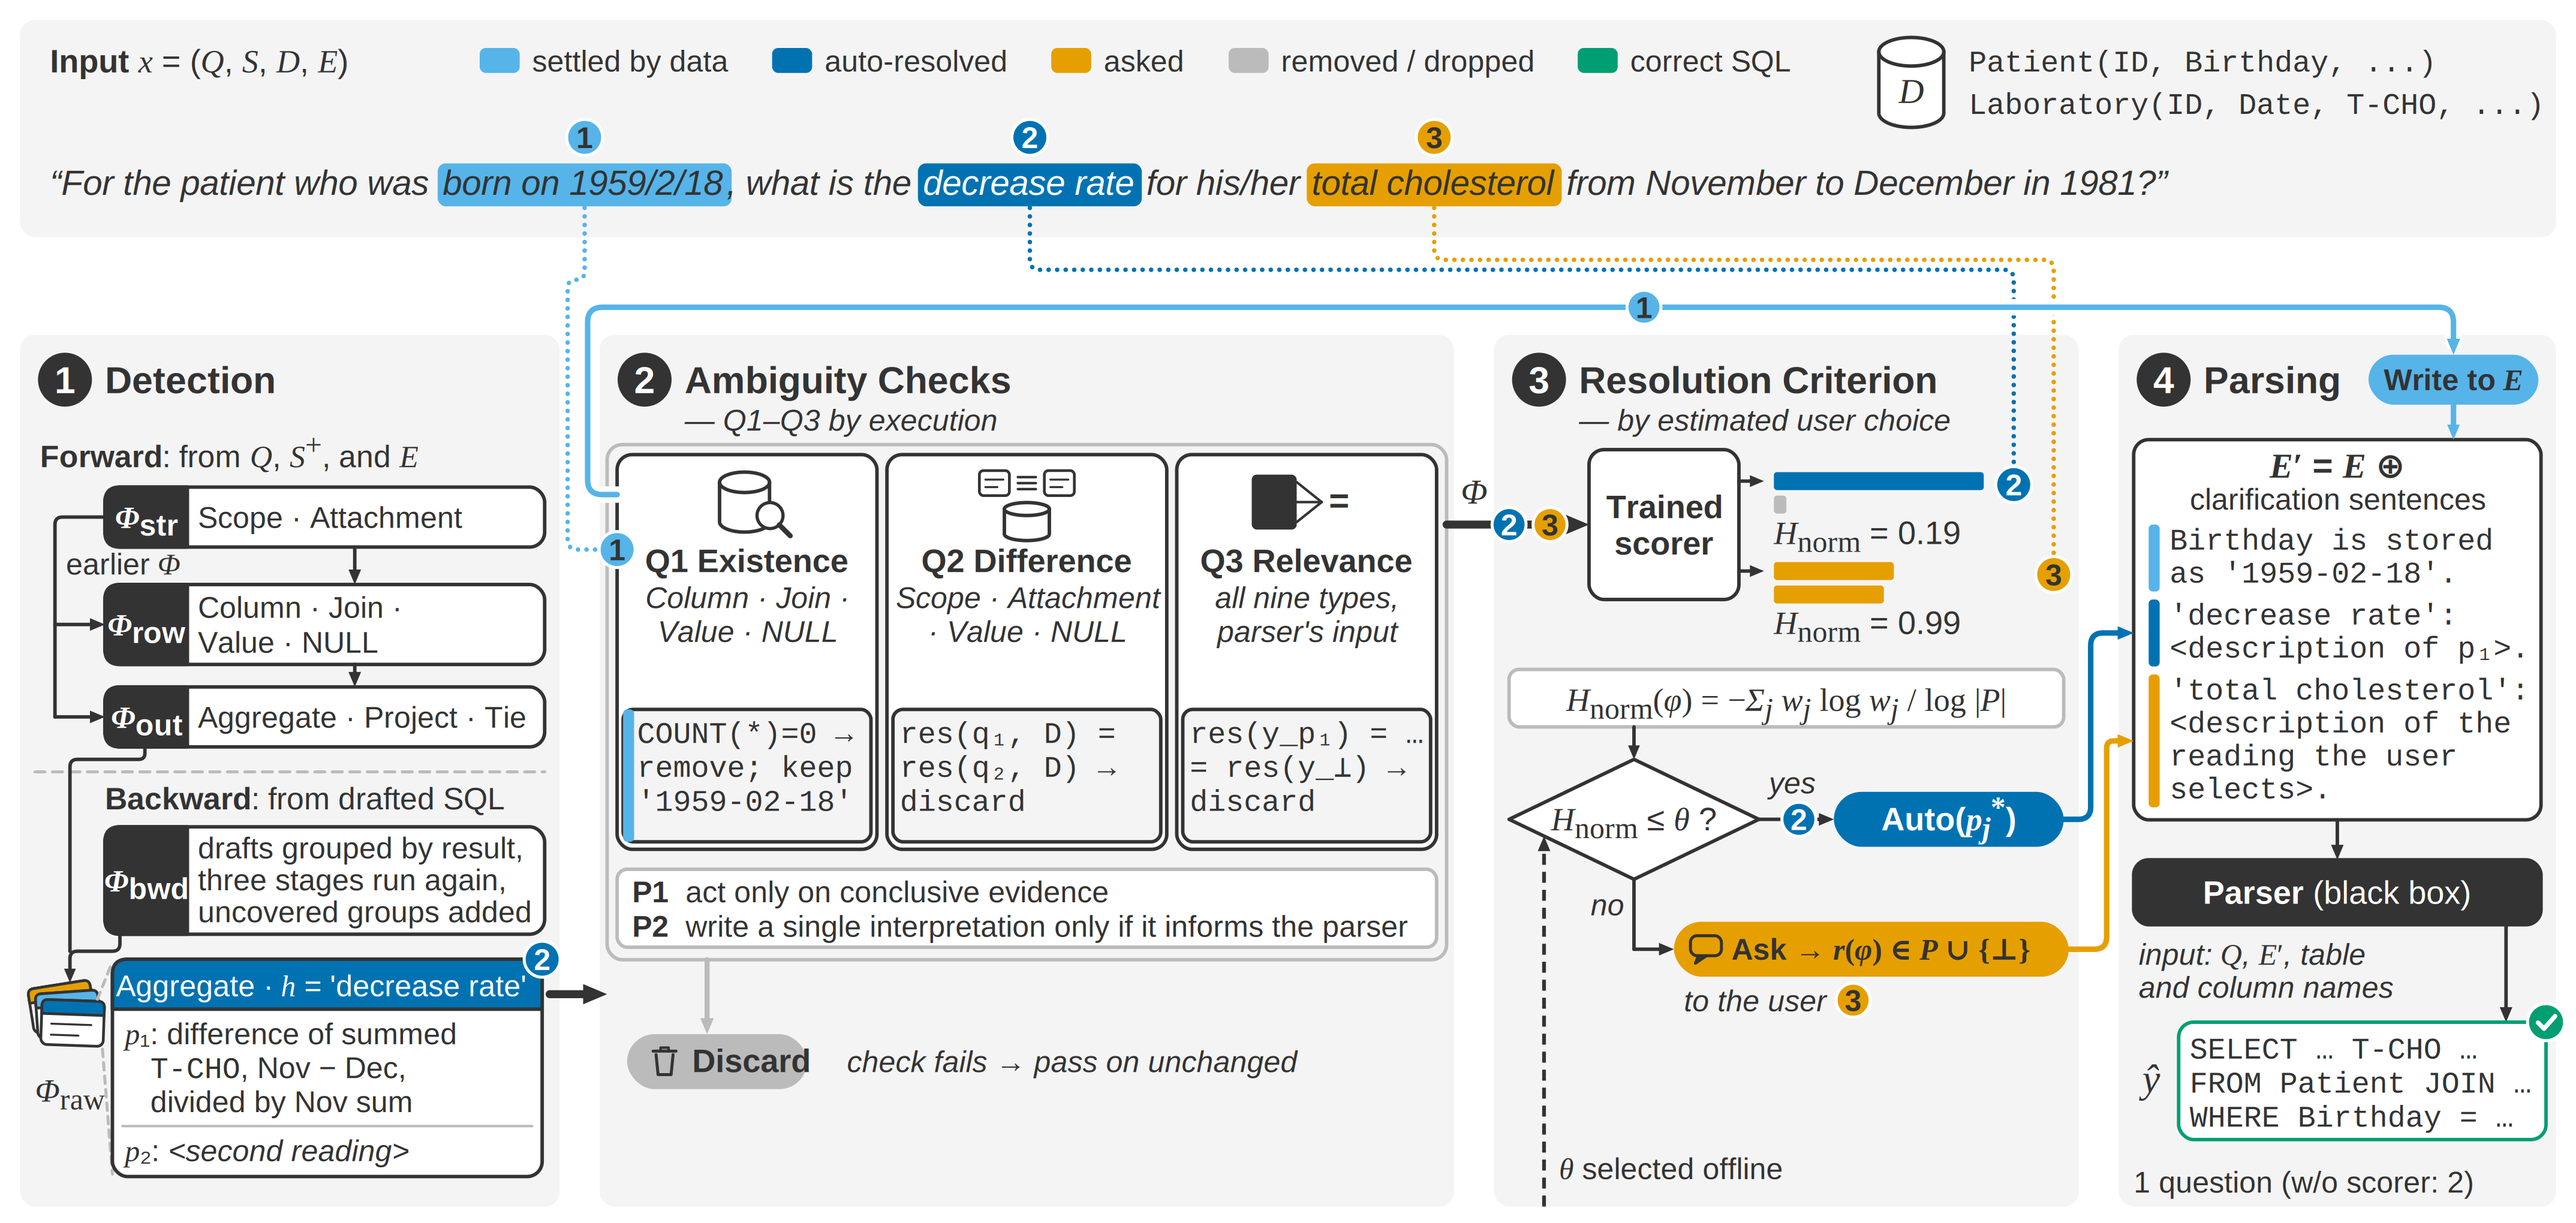
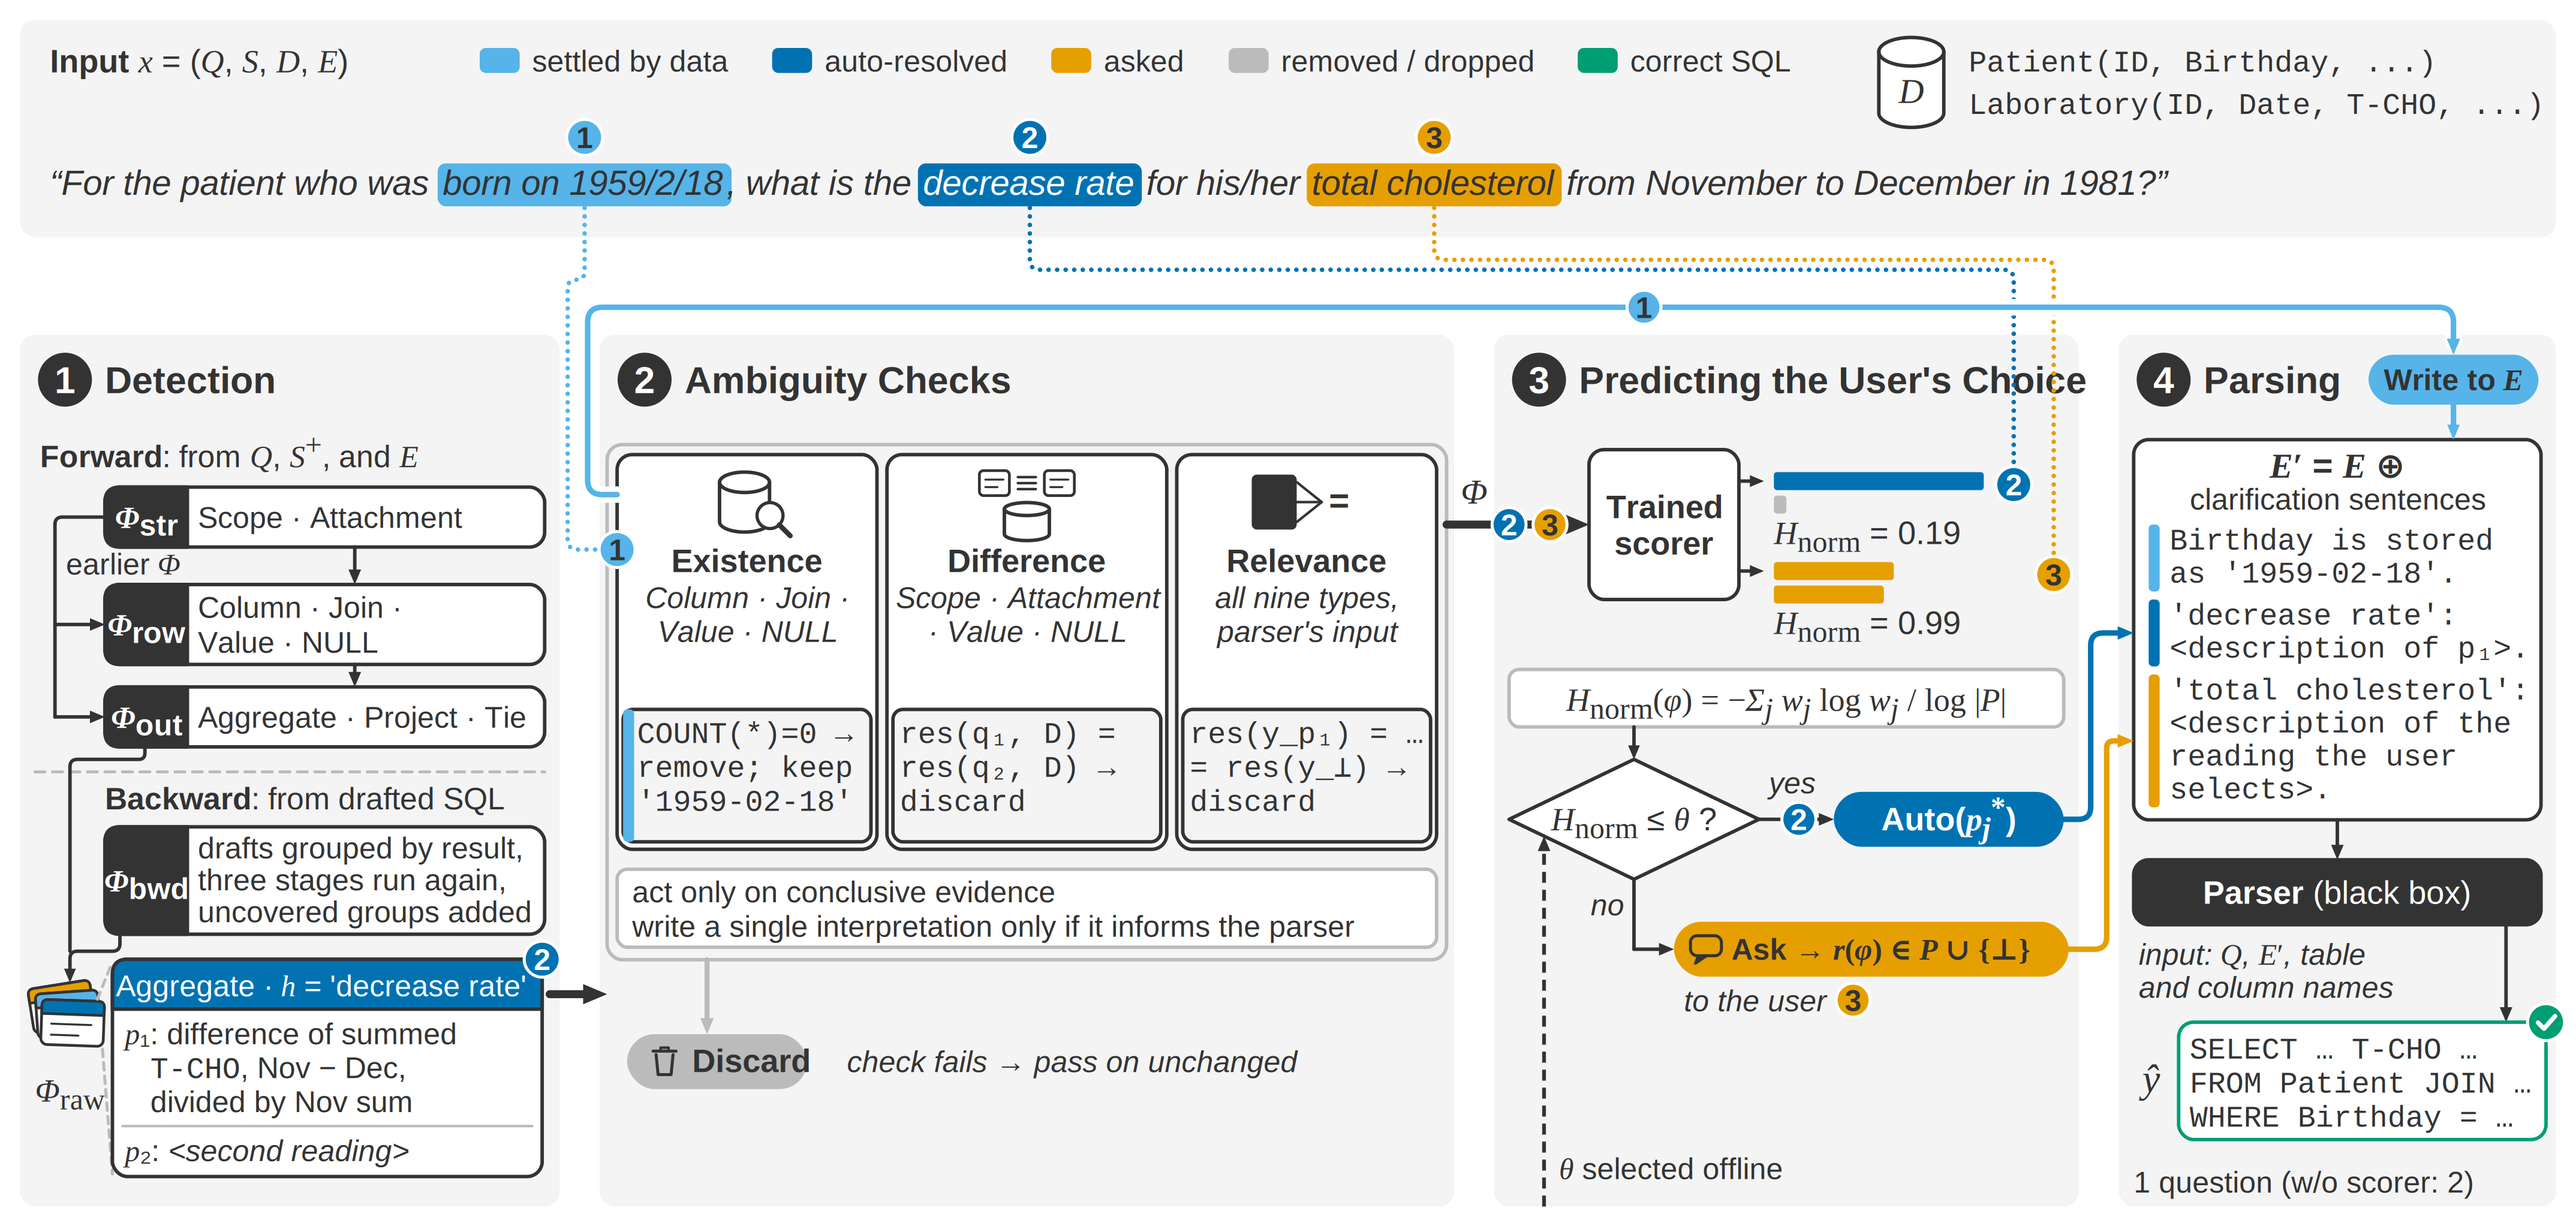
Overview figure: drop Q and P labels, rename scorer panel

diff --git a/make_overview.py b/make_overview.py
@@ -140,8 +140,8 @@ for n, (sx, sw_) in span_x.items():
 
 # ====================================================================== panels
 c.items.append(f'<g transform="translate(0,{-SHIFT})">')
-titles = [("Detection", None), ("Ambiguity Checks", "— Q1–Q3 by execution"),
-          ("Resolution Criterion", "— by estimated user choice"), ("Parsing", None)]
+titles = [("Detection", None), ("Ambiguity Checks", None),
+          ("Predicting the User's Choice", None), ("Parsing", None)]
 for k, ((x, w_), (t, s)) in enumerate(zip(P, titles)):
     box(x, PT, w_, PB - PT, fill=BG, stroke=None)
     header(x, PT, k + 1, t, s)
@@ -216,11 +216,11 @@ T(CX + 2.5, CY + 40.4, "$p$₂: /{<second reading>}", 6)
 x0, pw = P[1]
 GX, GY = x0 + 1.5, 100.0
 cols = [
-    (52.0, ["Q1 Existence"], ["Column · Join ·", "Value · NULL"],
+    (52.0, ["Existence"], ["Column · Join ·", "Value · NULL"],
      ["COUNT(*)=0 →", "remove; keep", "'1959-02-18'"]),
-    (56.0, ["Q2 Difference"], ["Scope · Attachment", "· Value · NULL"],
+    (56.0, ["Difference"], ["Scope · Attachment", "· Value · NULL"],
      ["res(q₁, D) =", "res(q₂, D) →", "discard"]),
-    (52.0, ["Q3 Relevance"], ["all nine types,", "parser's input"],
+    (52.0, ["Relevance"], ["all nine types,", "parser's input"],
      ["res(y_p₁) = …", "= res(y_⊥) →", "discard"]),
 ]
 CT, CODE_Y, CB = GY + 2, 153.0, 181.0
@@ -263,9 +263,9 @@ for k, (cw, title, types, code) in enumerate(cols):
 GW = cx_ - GX
 box(GX, GY, GW, BAR[1] + BAR[3] + 2.5 - GY, fill="none", stroke=GRAY)
 box(GX + 2, BAR[1], GW - 4, BAR[3], fill=WHITE, stroke=GRAY, rx=2)
-for j, (p, t_) in enumerate([("P1", "act only on conclusive evidence"),
-                             ("P2", "write a single interpretation only if it informs the parser")]):
-    T(GX + 5, BAR[1] + 6.6 + j * 6.9, f"!{{{p}}}  {t_}", 6, maxw=GW - 9)
+for j, t_ in enumerate(["act only on conclusive evidence",
+                        "write a single interpretation only if it informs the parser"]):
+    T(GX + 5, BAR[1] + 6.6 + j * 6.9, t_, 6, maxw=GW - 9)
 GBOT = BAR[1] + BAR[3] + 2.5
 
 # remove
